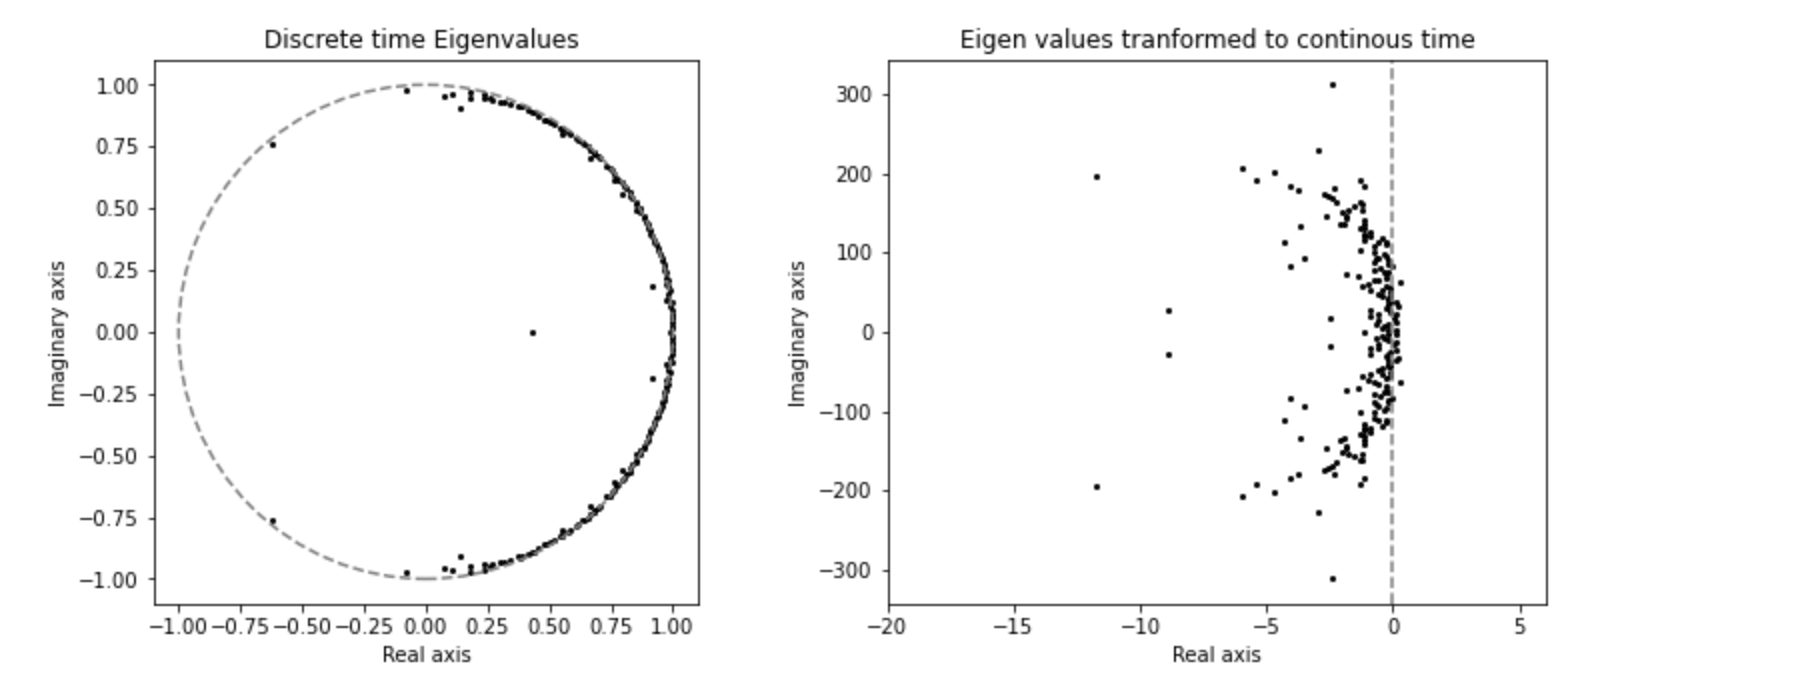
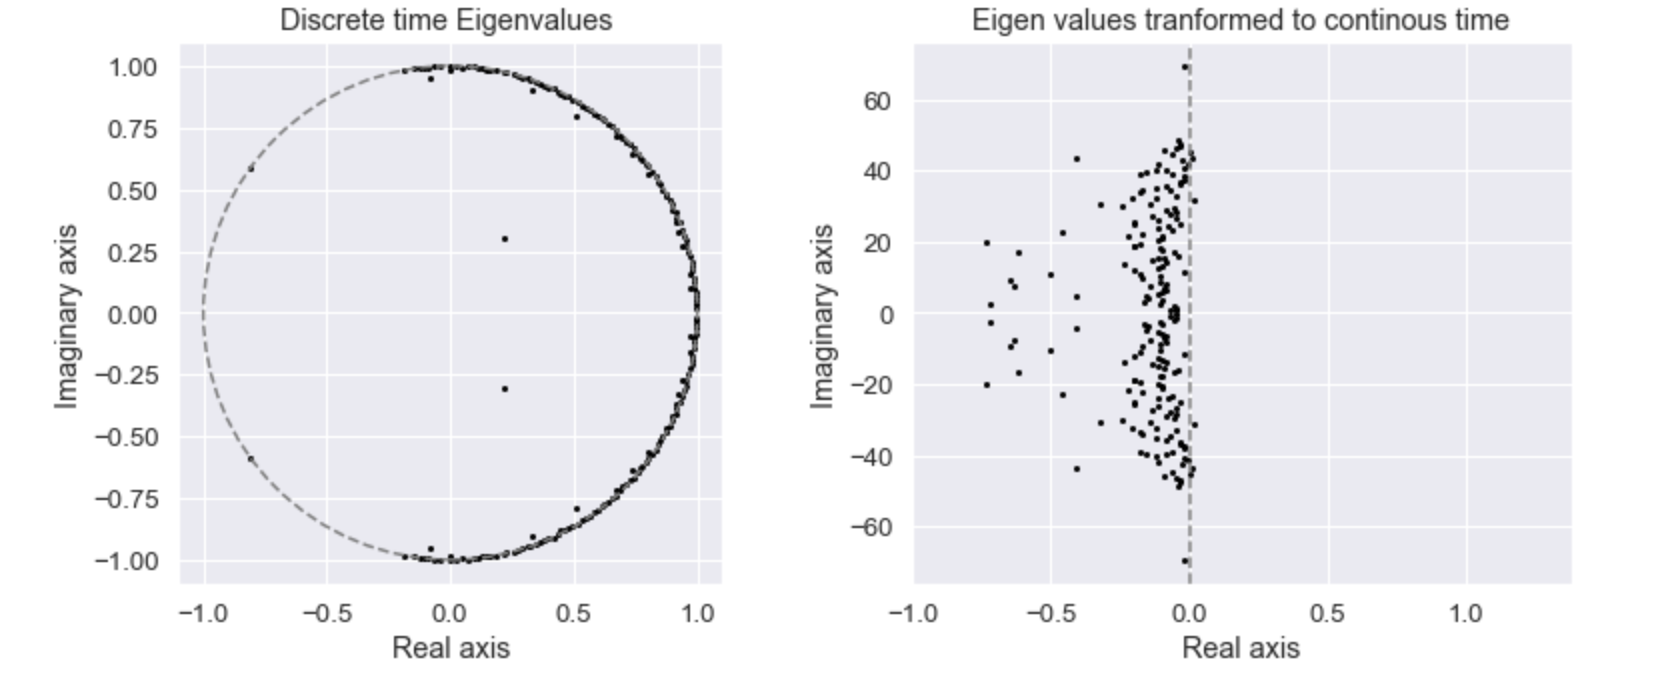
new changes

diff --git a/_posts/2021-12-23-DMD_Neuro.md b/_posts/2021-12-23-DMD_Neuro.md
@@ -3,7 +3,6 @@ layout: pos
 title:  " Application of Dynamic Mode Decomposition to Neural Recordings"
 image:  /images/dmd2_img1.png
 image1:  /images/dmd2_img2.png
-image2:  /images/DMD-IMG4.png
 
 
 
@@ -23,13 +22,14 @@ The differentiating factor of DMD from two most widely used methods of signal an
 ### **Method**
 ---
 <br/>
-For our purposes we will be applying DMD to a 500 msec window of 59-channel ECoG data sampled at 1 Hz and normalized to have unit variance. The invasive technique of Electrocorticography from which the measurments were taken, has significantly more precise temporal and spatial resolution compared to the non invasive techniques of EEG and ERP.
+For our purposes we will be exploring single channel EEG based DMD. Our data is a 30 second extract of slow wave sleep from one individual at a sampled at a rate of 100 hz from the F3 channel.
 
-The data was downloaded from [dmdbook.com](http://dmdbook.com) and was shared by Jeffrey Ojeman
+We will be choosing M = 600, (6s) long EEG segments and N=5 snapshots.
 
- We will be applying the algorithm to the time series data of electrical signals measured for 500 msec sampled at a 1 msec time step.
+The data was shared on by the Postdoctoral researcher
+Walker Lab, UC Berkeley, Raphael Vallat on his [blog](https://raphaelvallat.com/bandpower.html#).
 
-For our purposes, $X$ consists of the column vectors, $x_k$ with $k = 1,2...m-1$. Each $x_k$ is the observation across all electrodes at the $k^{th}$ time sample and $X'$ is one time step ahead of $X$.
+For our purposes, $X$ consists of the column vectors, $x_k$ with $k = 1,2...m-1$. Each $x_k$ is the measurement across all electrodes at the $k^{th}$ time sample and $X'$ is one time step ahead of $X$.
 
 <b/>
 
@@ -45,11 +45,11 @@ $$
 $$
 
 
-The DMD algorithm was constructed to work well for wide and square matrices with $n \geq m$ as a general rule. However, for this case it can be observed that $m \geq n$ as there are 59 columns representative of each electrode and 500 rows representative of the channels sampled per 1 msec.
+The DMD algorithm was constructed to work well for wide and square matrices with $n \geq m$ as a general rule. However, for this case it can be observed that $m \geq n$ as there are 5 columns representative of a snapshot and 600 rows.
 
 In order to resolve this problem we create an augmented matrix that is inspired by the hankel matrix.
 
-We first create an augmented vector that is obtained by stacking $x_k$ at current time with the copies of x at future times.
+We first create 'an augmented vector' which we can get by stacking $x_k$ at present time with the copies of x at future times.
 
 $$
 \mathbf{x}_{\mathrm{aug}}=\left[\begin{array}{c}
@@ -60,7 +60,7 @@ $$
 \end{array}\right]
 $$
 
-We then continue to append time shifted versions of $x_k$ in order to have the number of channels or columns to be $ln$. Here, l is the minimum integar that satisfies $ln > 2m$. Moreover, permuting the order of the measurements provides us with sufficent DMD modes to observe the dyanmics.
+We then continue to append time shifted versions of $x_k$ in order to have the number of channels or columns to be $ln$. Here, l is the minimum integer that satisfies $ln > 2m$. Moreover, permuting the order of the measurements provides us with sufficent DMD modes to observe the dyanamics.
 
 $$
 \begin{array}{l}
@@ -91,17 +91,20 @@ import scipy.io
 import numpy as np
 import matplotlib.pyplot as plt
 import numpy.linalg as la
-mat = scipy.io.loadmat('ecog_window.mat')
 from numpy import inf
 import math   
 
+
+#Loading and reshaping the data
+dat = np.loadtxt('data.txt')
+X = dat.reshape(5, 600)
+
+#paramters
 r = 200
-nstacks = 17
+nstacks = 240 #2m/n
+dt = 0.01
 
-X = mat['X']
-dt = mat['dt']
-
-Xaug = np.zeros((483))
+Xaug = np.zeros((360))
 
 for st in range(nstacks):
     b = X[:,st:-1-nstacks+st+1]
@@ -127,25 +130,11 @@ Phi = Y @ V_r @ la.inv(S_r)@ W_r
 k = dt/2*np.pi
 omega = np.log10(D)/k
 
-fig = plt.figure(figsize = (13, 5))
-ax = fig.add_subplot(1, 2, 1)
-ax.set_aspect('equal', adjustable = 'box')
-plt.scatter(D.real, D.imag, s=4, c='black')
-circle = plt.Circle((0, 0), 1, color = 'grey', linewidth = 1.5,linestyle = "--", fill = False)
-ax.add_patch(circle)
-plt.xlabel('Real axis')
-plt.ylabel('Imaginary axis')
-ax = fig.add_subplot(1, 2, 2)
-plt.scatter(omega.real, omega.imag, s=4, c='black')
-plt.axvline(0, linestyle='--', color = 'grey')
-plt.xlim(-20)
 
 ```
 <div style="text-align: center;"> <img src="{{page.image | relative_url}}" height="300" width="1100"> <figcaption> fig 1 - DMD Eigen values, λ's are  visualized with left being discrete time with respect to unit circle and the right transforming discrete λ's to continuous time with $log(λ)/(2πΔt)$ </figcaption>
 </div>
 
-<div style="text-align: center;"> <img src="{{page.image2 | relative_url}}" height="300" width="1100"> <figcaption> fig 2 - DMD modes for the first three Eigen Values </figcaption>
-</div>
 <br/>
 
 According to figure 1 most of the Eigen values either lie on the unit circle or inside it, it indicates that the dynamic modes are oscillatory and decaying and hence are neutrally stable.
@@ -164,7 +153,7 @@ where $w_i$ is the imaginary part of the complex  DMD Eigen values $\lambda_i$
 
 $$w_i = log(\lambda_i)/\Delta t = w_i^r + iw_i^i.$$
 
-The DMD spectrum is obtained by plotting the sum of *DMD powers* at frequency $f_i$ with respect to the oscillation frequency of the dynamic modes.
+The DMD spectrum is obtained by plotting the frequency of oscillation of dynamic modes with respect to the sum of *DMD powers* at frequency $f_i$.
 
 The *DMD power* can be calculated by taking the norm squared of $\phi$ and in order to make it comparable to the the power spectrum we scale it. Details can be view here'.
 
@@ -173,16 +162,13 @@ $$P = ||\phi||^2$$
  We plot both DMD Spectrum and Power Spectrum to note the qualitative similarities between the spectrums and as seen in the figure below both have similar amplitude decay frequencies
 
 
- <div style="text-align: center;"> <img src="{{page.image1| relative_url}}" height="300" width="1100"> <figcaption> fig2 - Dashed line mark the vectors most amplified by A </figcaption>
+ <div style="text-align: center;"> <img src="{{page.image1| relative_url}}" height="500" width="500"> <figcaption> fig2 - DMD spectrum is constructed using the code below and the image of the image of the power spectrum is by Raphael Vallat via [blog](https://raphaelvallat.com/bandpower.html#)</figcaption>
  </div>
 
  <br/>
  It is important to note that both spectrums are representative of different aspects and computations were also quite different:
 
- * Fast Fourier transform was computed for each of the 59 recording channels and the average(the thick black line in the graph) was plotted.
-
-
- * DMD was computed on the entire high dimensional time series data. The oscillation frequencies associated with the dynamic modes do not have a spread that is uniform compared to that of a conventional power spectrum.
+ * Fast Fourier transform was computed for a single channel F3 and DMD was computed on the entire time series data. The oscillation frequencies associated with the dynamic modes do not have a spread that is uniform compared to that of a conventional power spectrum.
 
  <br/>
 
@@ -200,6 +186,7 @@ $$P = ||\phi||^2$$
 
 ```python
 # DMD Spectrum
+# DMD Spectrum
 S_r_ = S_r**(-1/2)
 S_r_[S_r_==inf] = 0
 Ahat = S_r_ @ Atilde @ (S_r**(1/2))
@@ -211,32 +198,13 @@ f = np.abs(omega.imag)
 p = phi.conj().T @ phi
 P = p.diagonal()
 
-fig = plt.figure(figsize = (13, 5))
-ax = fig.add_subplot(1, 2, 1)
+plt.stem(f.T,P/10,linefmt ='grey', markerfmt ='none')
+plt.xlim(0,50)
+plt.xlabel('Frequency (Hz)')
+plt.ylabel('Power of DMD modes')
 
-plt.stem(f.T,P,linefmt ='grey', markerfmt ='none')
-plt.xlim((0,200))
+plt.show()
 
-
-ax = fig.add_subplot(1, 2, 2)
-
-#power spectrum
-timesteps = 483
-srate = 1/dt
-nelectrodes = 59
-NFFT = 2**math.ceil(math.log2(abs(timesteps)))
-f = srate/2* np.linspace(0, 1, 257)
-
-fftp = np.empty([59, 512],  dtype=complex)
-for i in range(nelectrodes):
-    fftp[i,:] = np.fft.fft(X[i,:],NFFT)
-
-l = []
-for i in range(59):
-    plt.plot(f.T,2*abs(fftp[i,0:257]), color = 'grey')
-    l.append(2*abs(fftp[i,0:257]))
-    plt.plot(f.T,np.mean(np.array((l)),0), color = 'black')
-    plt.xlim((0,200))
 ```
 ### **References**
 
